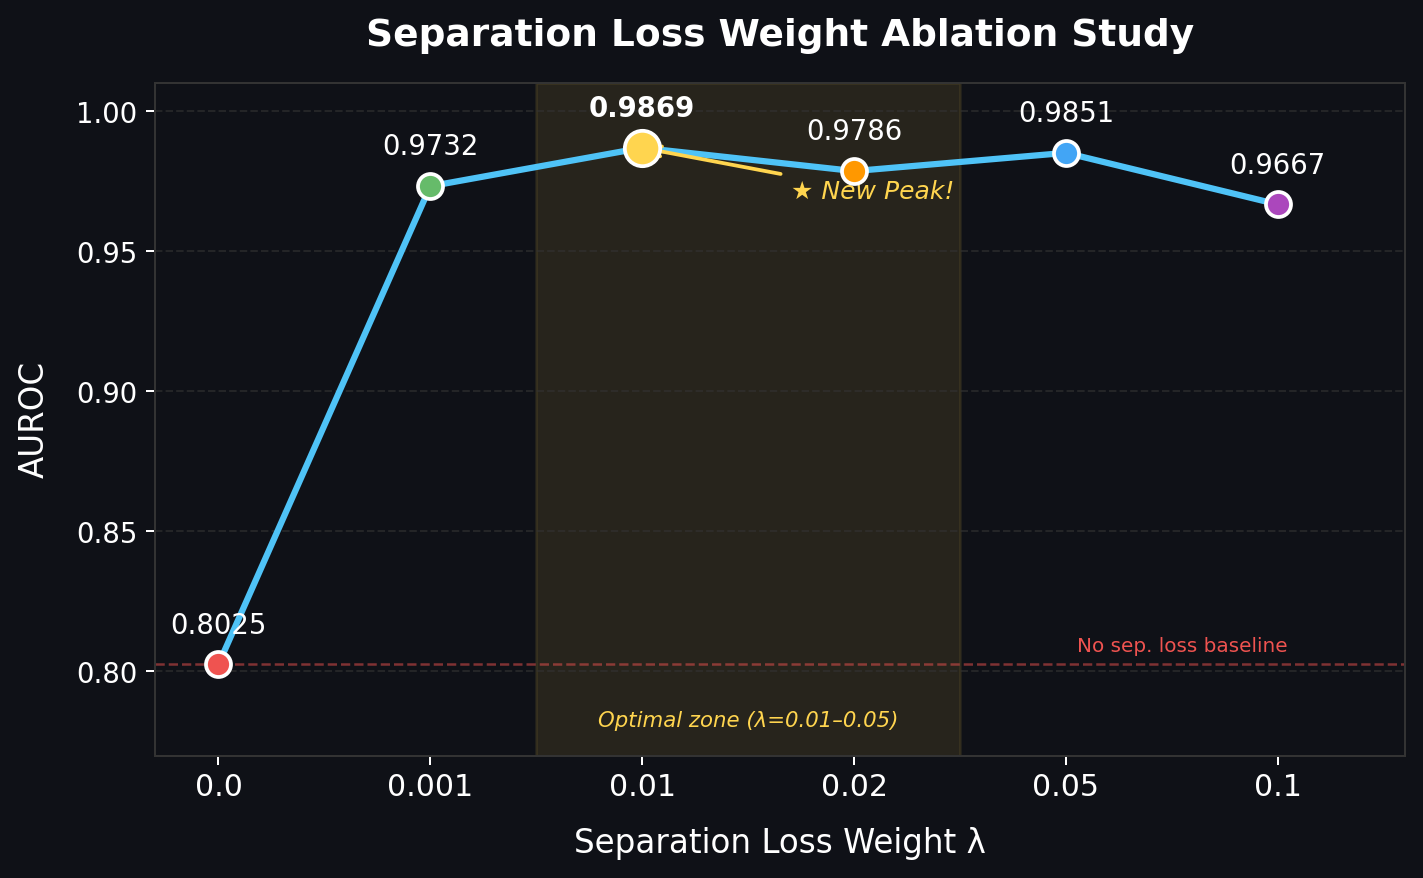
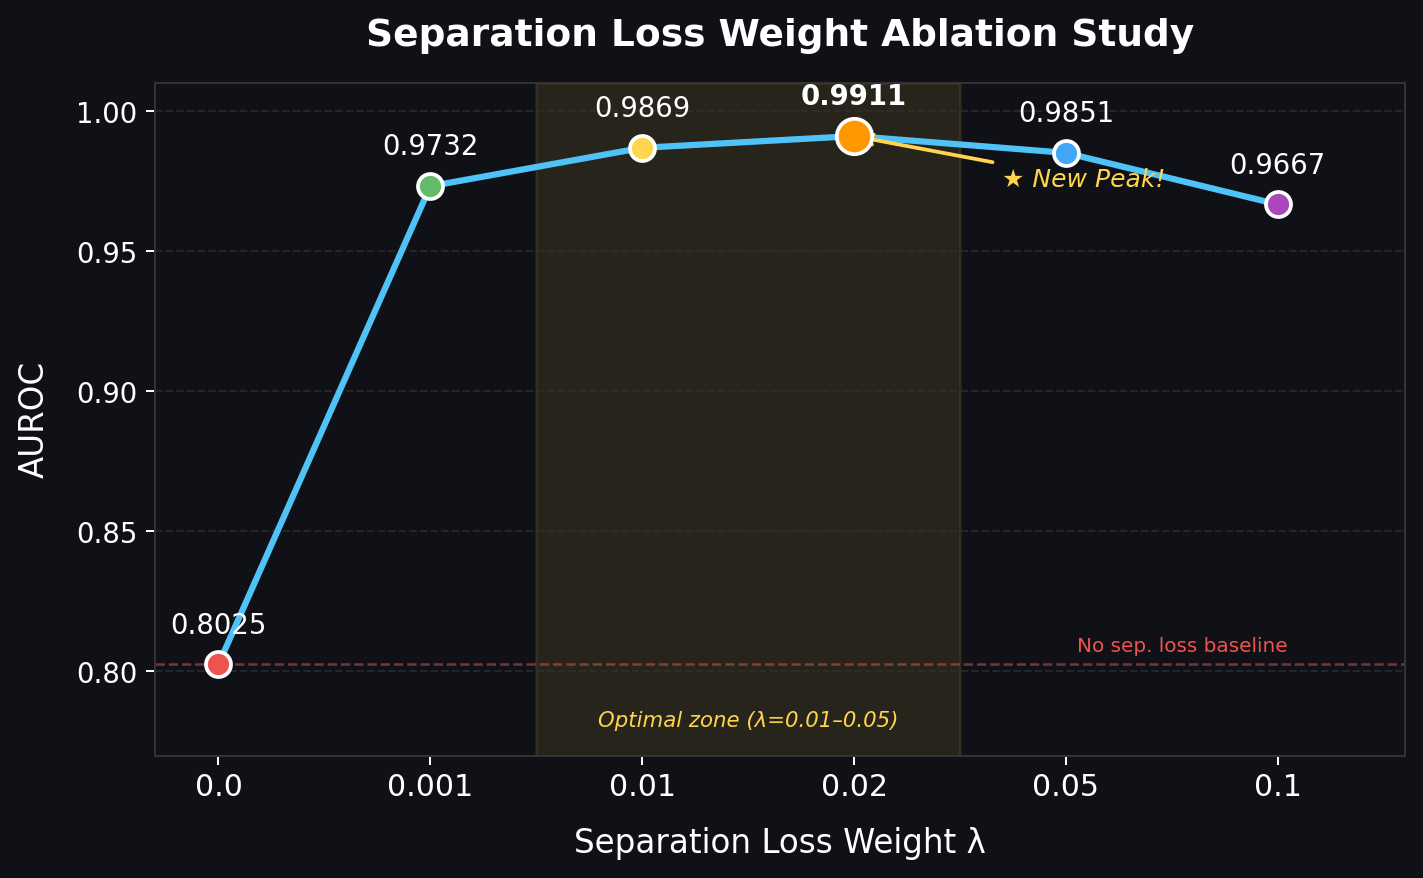
Update ablation: new peak λ=0.02 AUROC=0.9911 (still training)

Changed region(s): [[0.402, 0.0923, 0.8349, 0.246]]

diff --git a/scripts/plot_sep_ablation.py b/scripts/plot_sep_ablation.py
@@ -6,7 +6,7 @@ import numpy as np
 
 # All 6 final results
 weights = [0.0,    0.001,  0.01,   0.02,   0.05,   0.1]
-aurocs  = [0.8025, 0.9732, 0.9869, 0.9786, 0.9851, 0.9667]
+aurocs  = [0.8025, 0.9732, 0.9869, 0.9911, 0.9851, 0.9667]
 labels  = ['0.0', '0.001', '0.01', '0.02', '0.05', '0.1']
 x_pos   = [0, 1, 2, 3, 4, 5]
 
